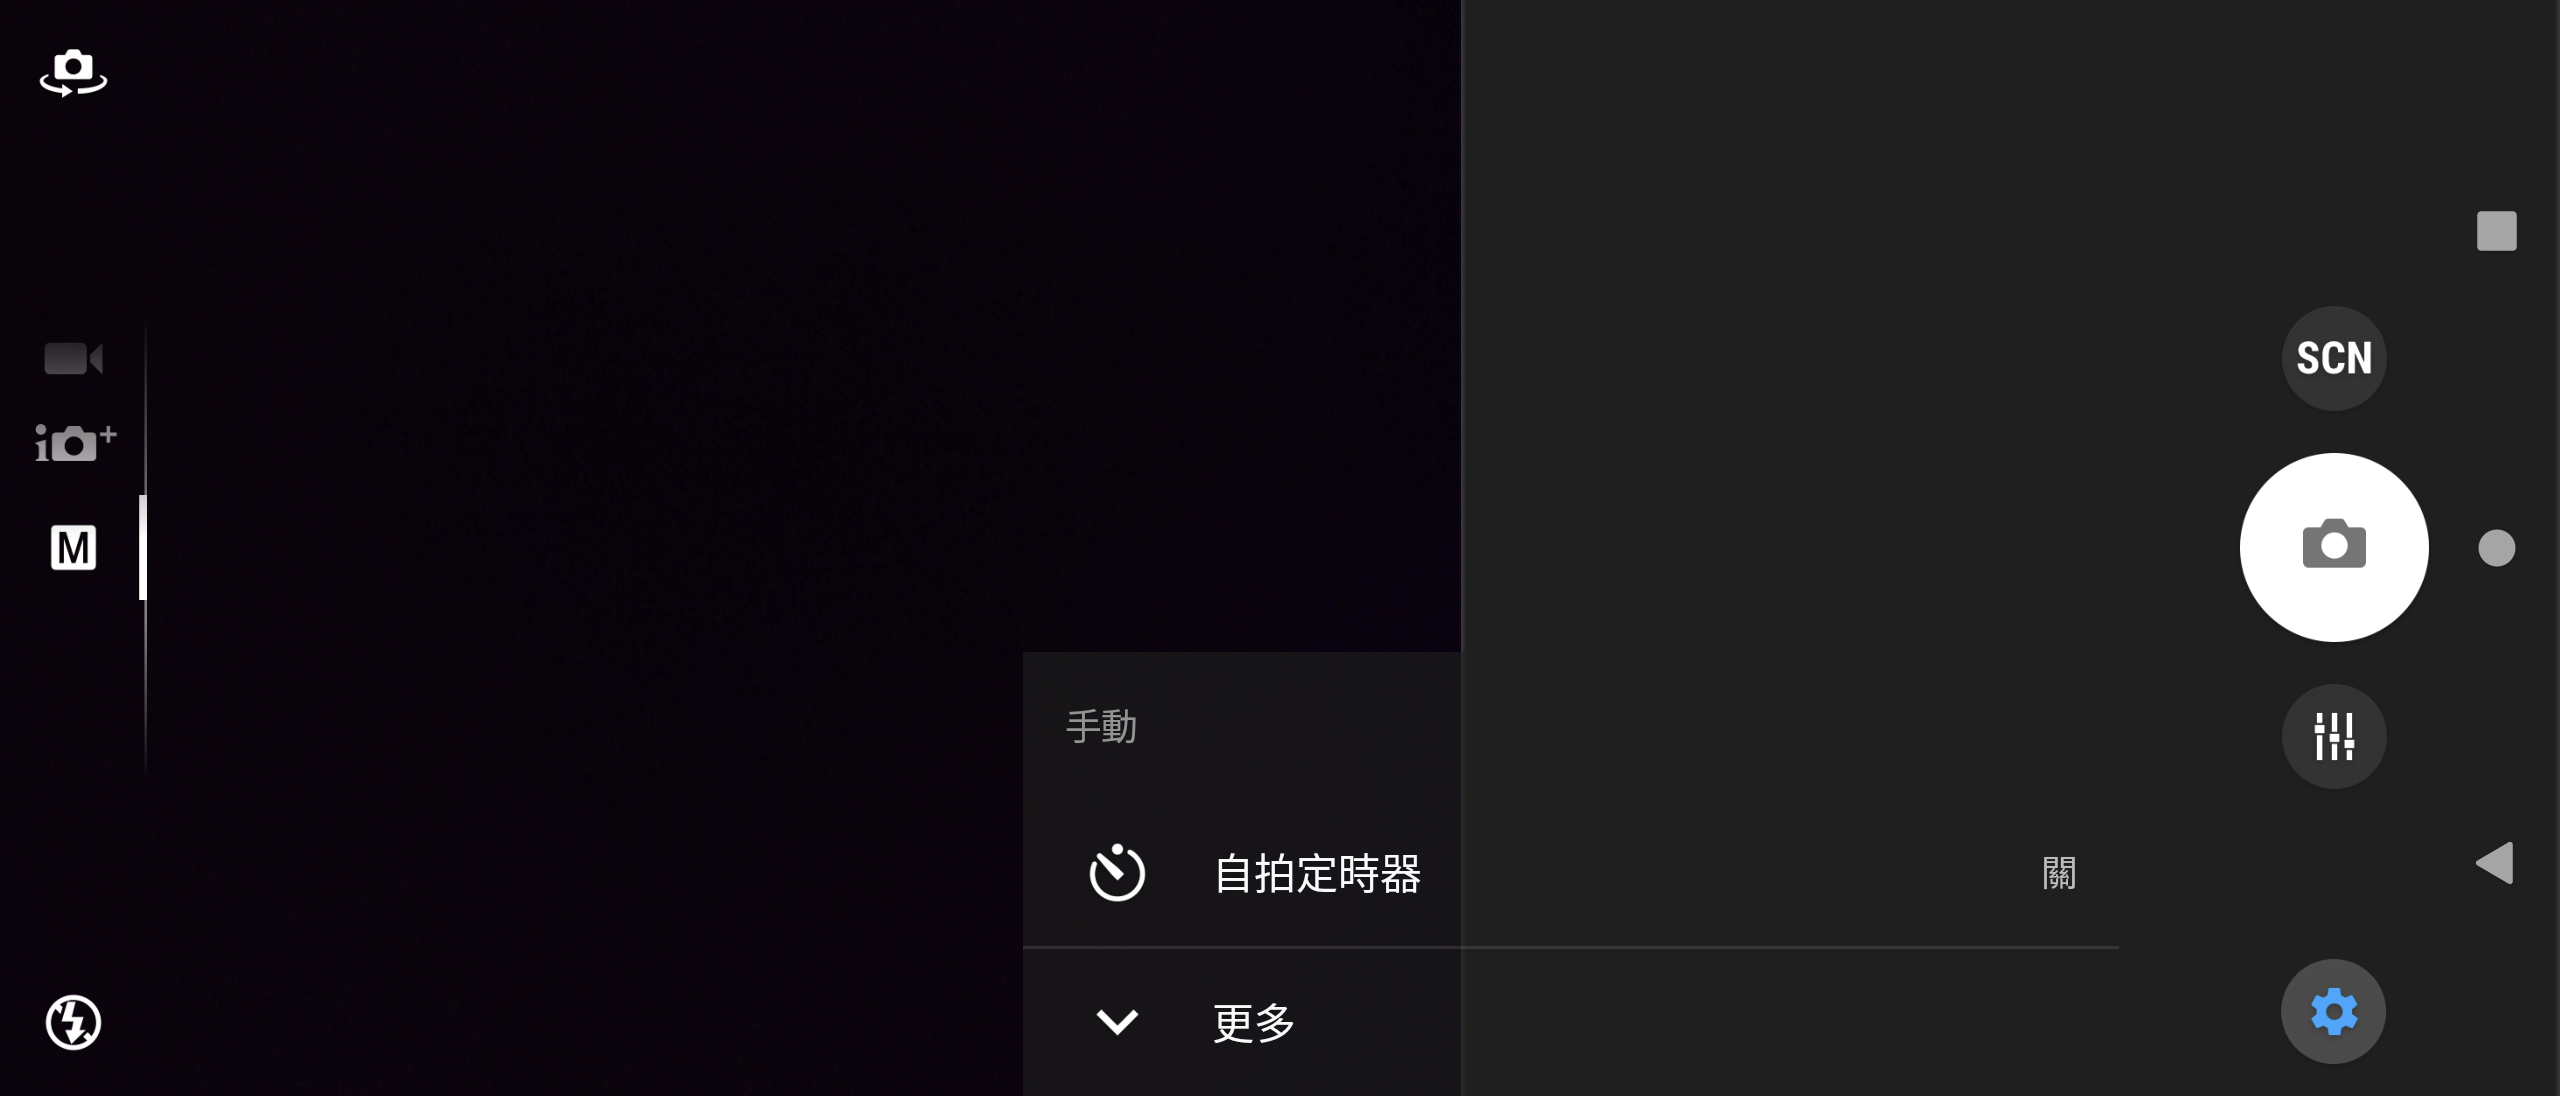
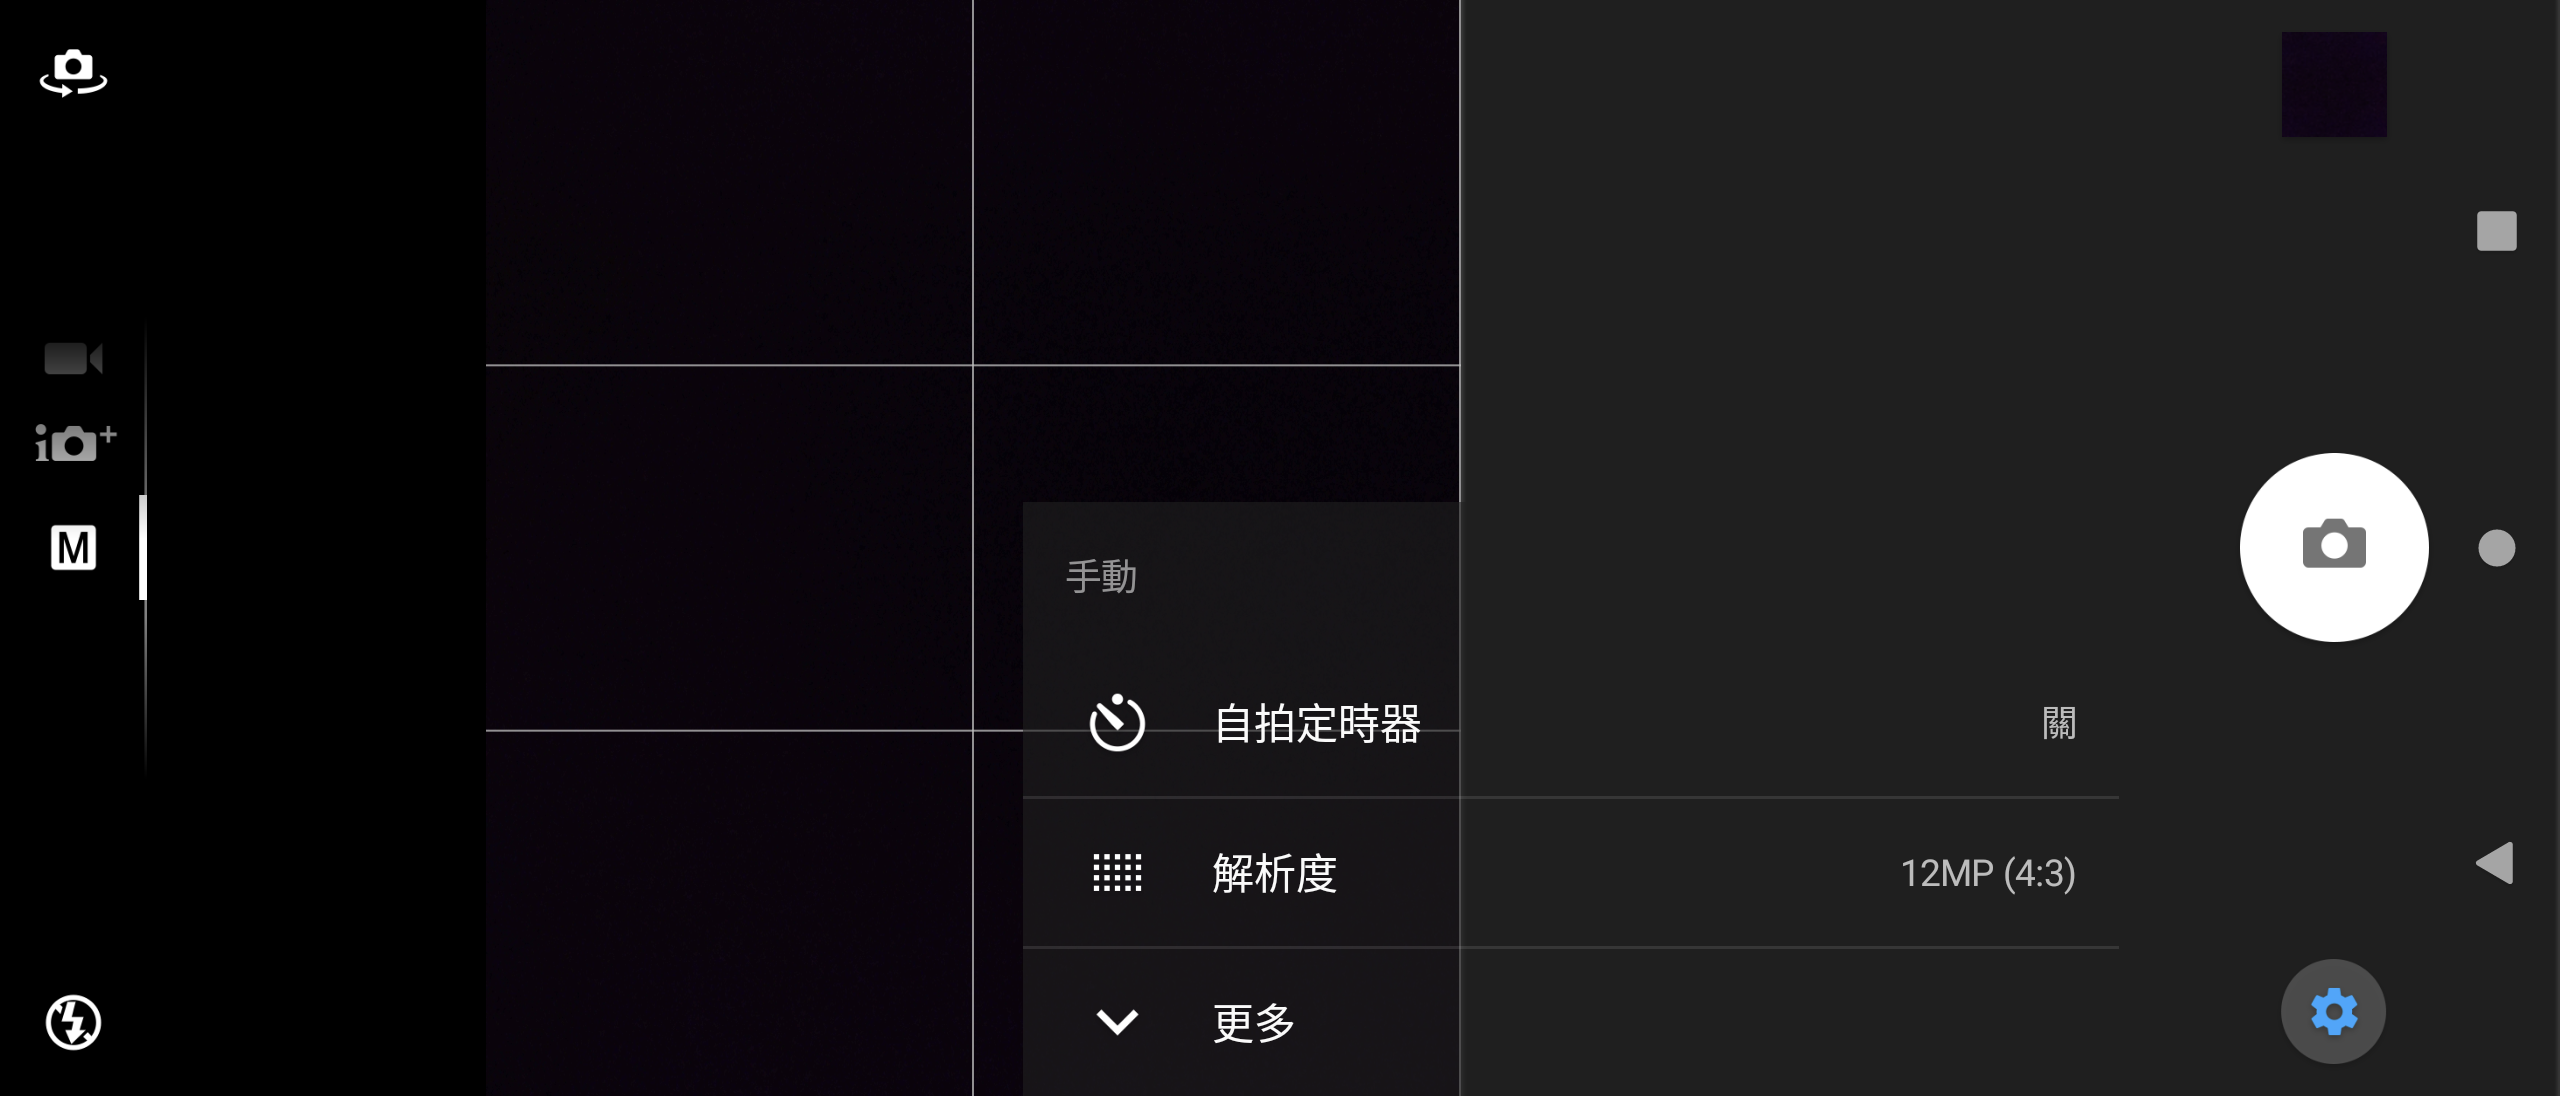
Update Sony Camera preservation record to v47

diff --git a/apps/camera-1.0.B.1.10/README.md b/apps/camera-1.0.B.1.10/README.md
@@ -1,17 +1,12 @@
 # Sony Camera 1.0.B.1.10 保存研究
 
-> 本項保存研究、版本整理、修復實作、實機測試與文件由專案擁有者指導
-> OpenAI Codex 完成。這是獨立研究，與 Sony、HTC 或 APKMirror 無隸屬、
-> 贊助或背書關係。
+> 本項保存研究、版本整理、修復實作、實機測試與文件由專案擁有者指導，OpenAI Codex 完成。這是獨立研究，與 Sony、HTC 或 APKMirror 無隸屬、贊助或背書關係。
 
 ## 狀態
 
-Xperia Z3 Android 6.0.1 時期的 Camera `1.0.B.1.10` 已修復為可獨立安裝
-的相容版本，在 Sony Xperia 1 III Android 13 通過真正主頁、版面、拍照、
-錄影、前後鏡頭、觸控對焦、設定與生命週期測試。執行不需要 Root 或重開機。
+Xperia Z3 Android 6.0.1 時期的 Camera `1.0.B.1.10` 已修復為可在 Sony Xperia 1 III Android 13 普通安裝的相容版本。它可進入真正相機主畫面，使用前後鏡頭拍照與錄影，執行不需要 Root 或重新開機。
 
-HTC One M8 缺少 Sony 私有共享程式庫，無法安裝同一成品，因此本項只接受
-為 `Sony-only`，不宣稱跨品牌通用。
+HTC One M8 缺少 Sony 私有共享程式庫，無法安裝同一成品，因此本項結果為 `Sony-only`，不宣稱跨品牌通用。
 
 ## 身分
 
@@ -19,108 +14,86 @@ HTC One M8 缺少 Sony 私有共享程式庫，無法安裝同一成品，因此
 |---|---|
 | Z3 目錄索引 | `Z3M-A226` |
 | Package | `com.sonyericsson.android.camera` |
-| 版本 | `1.0.B.1.10` |
-| Version code | `2098186` |
+| 版本 | `1.0.B.1.10` (`2098186`) |
 | Sony 測試平台 | Xperia 1 III `XQ-BC72`，Android 13 |
 | HTC 測試平台 | One M8，Android 6.0.1 |
-| Root／Magisk | 不需要 |
+| Root／Magisk／重新開機 | 不需要 |
 
 ## 歷史
 
-此 Camera 來自 Xperia Z3 韌體，原本依賴同一套 Sony 系統框架，並不是為
-一般使用者獨立安裝而設計。
+此 Camera 來自 Xperia Z3 韌體，原本依賴同一套 Sony 系統框架，並不是為一般使用者獨立安裝而設計。
 
 ## 用途
 
-它保存 Xperia Z3 的拍照與錄影介面，包含手動拍照、場景、曝光與白平衡、
-閃光燈、觸控對焦、前後鏡頭及錄影。
+它保存該世代的手動拍照、場景、曝光、白平衡、閃光燈、觸控對焦、前後鏡頭與錄影介面。
 
 ## 版本選擇
 
-較新的 `2.9` 系列雖然版本號較高，但屬於不同 Xperia 相機世代與感光元件
-對應，無法代表 Xperia Z3 體驗，因此本項保留並修復 Z3 原版。
+APKMirror 上同 package 較新的 `2.9.2.A.0.10` 要求 Android 14 以上，且屬不同 Xperia 相機世代；本項目以保存 Z3 介面與 Xperia 1 III 相容為目的，因此選擇並修復 `1.0.B.1.10`。
 
 ## 修復內容
 
-- 補入獨立執行需要的 Z3 framework 與 Camera Add-on 類別。
-- 保護新手機不存在的選用 Sony 服務與原生延伸路徑。
-- 使用 Xperia 1 III 支援的 Camera1 預覽尺寸。
-- 調整舊版取景器與控制區域，使其適應 21:9 畫面。
+- 補入獨立執行所需的 Z3 framework／Camera Add-on 類別，並保護新手機不存在的選用 Sony 服務。
 - 將失效的 Sony 專用 MediaStore 查詢改為標準 Android 查詢。
-- 修復觸控對焦座標與可見對焦框，使左右點擊能落在不同位置。
-- 保留本機拍照與錄影，不依賴遠端服務。
+- 依 Xperia 1 III Camera1 能力選用前後鏡頭的相容預覽、拍照與錄影尺寸。
+- 後鏡頭拍照提升至 `4032 x 3024`（12 MP），前鏡頭提升至 `3264 x 2448`（8 MP）。
+- 後鏡頭錄影提升至 `3840 x 2160` HEVC，前鏡頭為 `1920 x 1080` H.264。
+- 修正 21:9 螢幕上的取景器置中與控制區域，並補回繁體中文 `12MP (4:3)` 標籤。
+- Xperia 1 III Camera1 HAL 無法可靠完成暫停後的錄影，因此隱藏不支援的暫停鍵，保留穩定的開始與停止錄影。
 
 修復版使用本地保存測試簽章，不能直接覆蓋 Sony 原始簽章版本。
 
-## 未恢復功能
+## 驗證結果
 
-- 沒有仿造 Xperia Z3 相機 HAL 的自動場景辨識能力。
-- 沒有替換 Xperia 1 III 的系統相機框架或 Photography Pro。
-- 沒有加入雲端服務、帳號繞過、付費功能或額外遙測。
+- 後鏡頭 JPEG：`4032 x 3024`。
+- 前鏡頭 JPEG：`3264 x 2448`。
+- 後鏡頭 MP4：HEVC Main、`3840 x 2160`、約 29.97 fps、AMR-WB 音訊。
+- 前鏡頭 MP4：H.264 High、`1920 x 1080`、約 29.97 fps、AMR-WB 音訊。
+- 12 個深度控制契約：11 個通過；1 個受舊版觸控層範圍限制。
+- HTC 普通安裝失敗：缺少 `com.sonyericsson.privateapis_1p`。
 
 ## 測試平台
 
 | 裝置 | 系統 | 結果 |
 |---|---|---|
-| Sony Xperia 1 III `XQ-BC72` | Android 13 / API 33 | Sony-only 技術驗收通過 |
-| HTC One M8 | Android 6.0.1 / API 23 | 同一 APK 安裝失敗，缺少 Sony 私有共享程式庫 |
-
-## 驗證結果
-
-- 冷啟動可進入真正即時相機主畫面。
-- 沒有 App 自身造成的黑邊、裁切、重疊或黑畫面。
-- 拍照產生有效 JPEG。
-- 錄影產生有效 H.264 影像與 AAC 聲音 MP4。
-- 前後鏡頭切換後都能恢復即時預覽。
-- 左右觸控對焦位置與對焦框確實不同。
-- 16 個控制項中 15 個通過、0 個失敗、1 個硬體能力受阻。
-- HTC 普通安裝失敗：缺少 `com.sonyericsson.privateapis_1p`。
+| Sony Xperia 1 III `XQ-BC72` | Android 13 / API 33 | `accepted_sony_only` |
+| HTC One M8 | Android 6.0.1 / API 23 | 同一 v47 APK 安裝失敗，缺少 Sony 私有共享程式庫 |
 
 ## 已知限制
 
-- Xperia 1 III HAL 回報 `sony-scene-detect-supported=false`，因此 Superior
-  Auto 介面可開啟，但 Xperia Z3 的自動場景辨識後端無法套用。
-- 舊 Camera1 預覽在室內低光源下不如 Photography Pro 流暢。
-- 實測只涵蓋上述 Sony 與 HTC，不推論所有 Xperia、Android 或 OEM。
-- 尚未進行完整 TalkBack 操作流程，不提出完整無障礙相容聲明。
+- 遠右側取景畫面的觸控對焦落在舊版觸控層之外；左側與中央觸控對焦可用。本輪沒有採用會破壞版面的高風險擴張修補。
+- 錄影暫停／繼續已停用；開始與停止錄影正常。
+- Xperia 1 III HAL 不提供 Z3 Superior Auto 所需的完整 Sony 場景偵測後端。
+- 相機固定橫向是原始設計；舊 Camera1 預覽在室內低光源下不如現代 Photography Pro 流暢。
+- 尚未完成完整 TalkBack 流程，不提出完整無障礙相容聲明。
+- 只驗證上述 Sony 與 HTC，不推論所有 Xperia、Android 或 OEM。
 
 ## 截圖
 
-公開副本只包含 Camera 介面與無法辨識環境的暗色測試畫面，已完成 OCR、
-原始像素、中繼資料與尾端資料檢查。
+公開副本只包含 Camera 介面與無法辨識環境的暗色取景背景，已完成原始像素、OCR、檔案中繼資料、尾端資料與關聯風險檢查。
 
-| Sony Xperia 1 III Android 13 橫向場景選擇 | Sony Xperia 1 III Android 13 橫向手動設定 |
+| 手動設定與 12MP 標籤 | 解析度選項 |
 |---|---|
-| ![Camera 場景選擇](screenshots/camera-scene-selection.png) | ![Camera 手動設定](screenshots/camera-manual-settings.png) |
+| ![Camera 手動設定](screenshots/camera-manual-settings.png) | ![Camera 解析度選項](screenshots/camera-resolution-options.png) |
 
 ## 檔案與完整性
 
 | 項目 | SHA-256 |
 |---|---|
[7 lines of base64/hex data omitted]
 
-公開 repository 不包含 Sony 原始或重簽 APK。雜湊只用來辨認專案擁有者
-私人 App Store 與 NAS 保存的精確測試成品。
-
-保存研究所使用的重建流程為：合法持有的 Z3 原檔經固定工具版本解碼，
-套用文件記載的最小相容修改，再重建、對齊、本地簽章及核對 SHA-256。
-公開 evidence-only 紀錄不提供 Sony 程式碼或可直接重建 OEM APK 的補丁。
+公開 repository 不包含 Sony 原始 APK、重簽 APK、Sony 程式碼或可直接重建 OEM APK 的補丁。雜湊用來辨認專案擁有者私人 App Store 與 NAS 保存的精確測試成品。
 
 ## 安裝與回溯
 
-私人相容 APK 使用一般 Android Package Manager 安裝，不需要 Root 或重開機。
-由於簽章與 Sony 原版不同，若已有同 package 原版，必須先備份資料並解除
-安裝衝突版本。回溯時解除安裝相容版，再安裝合法保存且簽章相符的原版；
-解除安裝會移除 App 本機資料。
+私人相容 APK 使用一般 Android Package Manager 安裝。由於簽章與 Sony 原版不同，若已有同 package 原版，必須先備份資料並解除安裝衝突版本。回溯時解除安裝相容版，再安裝合法保存且簽章相符的原版；解除安裝會移除 App 本機資料。
 
 ## 發布與法律聲明
 
-公開模式為 `evidence_only`：只發布本專案撰寫的文件、測試結果、雜湊及
-去識別化截圖。Sony、Xperia、App 名稱、程式、介面、圖示、商標與其他
-資產仍屬原權利人。
+公開模式為 `evidence_only`：只發布本專案撰寫的文件、測試結果、雜湊及去識別化截圖。Sony、Xperia、App 名稱、程式、介面、圖示、商標與其他資產仍屬原權利人。
 
 ## 研究與作者分工
 

diff --git a/apps/camera-1.0.B.1.10/TEST_RESULT.md b/apps/camera-1.0.B.1.10/TEST_RESULT.md
@@ -5,13 +5,15 @@
 | Xperia Z3 版本身分 | 通過 |
 | Sony Xperia 1 III 普通安裝 | 通過 |
 | 真正相機主畫面 | 通過 |
-| 黑邊、裁切、重疊 | 通過 |
-| 拍照 | 通過，有效 JPEG |
-| 錄影 | 通過，有效 H.264 與 AAC MP4 |
-| 前後鏡頭 | 通過 |
-| 左右觸控對焦 | 通過 |
-| 深度控制 | 15 通過、0 失敗、1 個 HAL 硬體能力受阻 |
+| 橫向版面與取景器置中 | 通過 |
+| 後鏡頭拍照 | 通過，4032 x 3024 JPEG |
+| 前鏡頭拍照 | 通過，3264 x 2448 JPEG |
+| 後鏡頭錄影 | 通過，3840 x 2160 HEVC + AMR-WB MP4 |
+| 前鏡頭錄影 | 通過，1920 x 1080 H.264 + AMR-WB MP4 |
+| 錄影暫停／繼續 | 不支援並已安全隱藏；開始／停止正常 |
+| 觸控對焦 | 左側與中央通過；遠右側受舊觸控層範圍限制 |
+| 深度控制 | 11 通過、0 失敗、1 個已記錄平台限制 |
 | HTC 同一成品 | 安裝失敗，缺少 Sony 私有共享程式庫 |
-| Root／重開機 | 不需要 |
+| Root／重新開機 | 日常安裝與使用皆不需要 |
 
 公開紀錄不含 APK；精確測試成品以 `README.md` 內 SHA-256 辨認。
